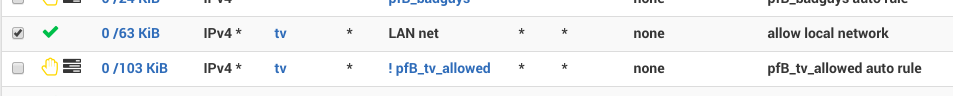
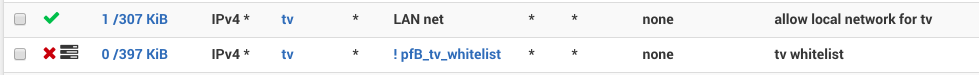
custom rules

diff --git a/posts/pfsensenvidia.html b/posts/pfsensenvidia.html
@@ -30,13 +30,13 @@
     
     <div class="container">      
         <div id="content"><div><h2 id="post_title">Suppress smart TV noise with pfSense</h2><p id="post_date">February 9, 2018</p><div id="post_body" class="page_body">Like millions of other folks, I have a <a href="https://www.nvidia.com/en-us/shield/">smart</a> TV, 
-or simply a tiny android box that lets me play Youtube music and Amazon Prime videos.
+or simply a tiny android box that plays Youtube music and Amazon Prime videos.
 I also like to run <a href="https://www.pfsense.org/">pfSense</a> firewall, with pretty much 
 out-of-the-box setup.
 </p>
 
-While checking firewall logs, and reviewing the usual scans for ports 23/22 from all over the world, 
-I started blocking certain geolocations and noticed that every minute or so my smart TV was 
+While checking firewall logs, and reviewing the usual scans for ports 23/22, from all over the world, 
+I decided to start blocking certain geolocations and noticed that every minute or so my smart TV was 
 pinging two IPs in China. 
 </p>
 <p style="text-align: center">
@@ -45,14 +45,14 @@ pinging two IPs in China.
         </a>
 </p>
         
-Launching adb, android debugger and digging deeper -- the app responsible for those pings is 
+Launching adb, android debugger and digging deeper -- the app responsible for those pings was 
 <a href="https://play.google.com/store/apps/details?id=com.waxrain.airplaydmr2&hl=en">com.waxrain.airplaydmr2</a>, 
 one of only 3 custom apps installed on the device.
 </p>
 
-This got me curious of what other traffic this little android box is leaking. Among the 
-usual Nvidia telemetry spam (even though it was explicitly disabled in the OS setttings), 
-there is Adobe and Facebook broadcasts. Neither of which I care about.
+This got me curious of what other traffic this android box is leaking. Among the 
+usual Nvidia telemetry (even though it was explicitly disabled in the OS setttings), 
+there are Adobe, Facebook and other broadcasts.
 </p>
 <p style="text-align: center">
 <a href="../assets/other-unknown-traffic.png">
@@ -60,29 +60,31 @@ there is Adobe and Facebook broadcasts. Neither of which I care about.
 </a>
 </p>
 
-With help from pfBlockerNG package, however, we can easily silence this chatter down.
+With pfSense, we can easily quiet this chatter down a bit.
 </p>
 
-<h3>Strategy</h3>
-First, we need to decided which traffic we care about. 
-I only care about youtube and amazon at this point. And while those two also broadcast a ton of telemetry data 
-we'll just have to take the bad with the good here. So outside of those two services, 
-the smart TV box should be completely silent and invisible to the outside world.
+<h3>0. Strategy</h3>
+First, we need to decide which traffic we care about. 
+I only care about youtube and amazon at this point, and while those two also query a ton of telemetry  
+we'll just have to take the bad with the good here. But outside of those two services, 
+the smart TV should be completely silent and invisible to the outside world.
 </p>
 
-To start blocking WAN traffic, we will build a pfBlockerNG rule to isolate  
-<a href="https://bgp.he.net/search?search%5Bsearch%5D=google&commit=Search">google</a>/<a href="https://bgp.he.net/search?search%5Bsearch%5D=amazon&commit=Search">amazon</a> 
-using <a href="https://en.wikipedia.org/wiki/Autonomous_system_(Internet)">ASN</a>s. 
-Upon feed updates, pfBlockerNG will resolve those ASNs to lots of IP addresses. 
-To make firewall rules easier, first we build a rule that blocks traffic to google/amazon 
-and then inverse the source/destination (effectively blocking all other traffic instead).
+In order to block WAN traffic, we will use a pfBlockerNG to isolate  
+<a href="https://bgp.he.net/search?search%5Bsearch%5D=google&commit=Search">google</a>, 
+<a href="https://bgp.he.net/search?search%5Bsearch%5D=amazon&commit=Search">amazon</a>, 
+and <a href="https://bgp.he.net/search?search%5Bsearch%5D=akamai&commit=Search">akamai</a> 
+(because that's where most amazon content is delivered from) using 
+<a href="https://en.wikipedia.org/wiki/Autonomous_system_(Internet)">ASN</a>s. 
+Upon feed updates, pfBlockerNG will resolve those ASNs to IP addresses which we can reference in 
+firewall rules.
 </p>
 
-<h3>Adding firewall rules</h3>
-Navigate to <b>Firewall / pfBlockerNG / IPv4</b>, click Add. Set List Action: Deny Both, on 
-Advanced Inbound add IP of your smart TV to Custom Destination, and similarly on 
-Advanced Outbound to Custom Source. In IPv4 Custom List tab, check Enable Domain/AS 
-and paste following ASNs into Custom Address(es).
+<h3>1. pfBlockerNG alias</h3>
+Navigate to <b>Firewall / pfBlockerNG / IPv4</b>, click Add. Come up with name (tv_whitelist), set List 
+Action: Alias Native, which means pfBlockerNG will only create firewall alias (<b>Firewall / Aliases / URLs</b>), 
+and won't be adding any firewall rules. 
+In IPv4 Custom List tab, check Enable Domain/AS and paste following ASNs into Custom Address(es).
 
 <pre>
 AS15169
@@ -98,20 +100,40 @@ AS6432
 AS16550
 AS62785
 AS58588
+AS393560
+AS393234
+AS36183
+AS35994
+AS35993
+AS32787
+AS30675
+AS23455
+AS23454
+AS22207
+AS20189
+AS18717
+AS18680
+AS17334
+AS16702
+AS16625
+AS12222
 </pre>
 
-Once the rule is saved, run pfBlockerNG update and reload steps on <b>Firewall / pfBlockerNG / Update</b> page. 
-The log should state that a few hundred IPs have been added.</p>
+Once this alias is saved, run pfBlockerNG update and reload steps on <b>Firewall / pfBlockerNG / Update</b> page. 
+The log should state that a few hundred IPs have been added, about 19000 as of this writting.</p>
 
-pfBlockerNG essentially builds multiple, regular pfSense firewall rules 
-which we'll slightly adjust to complete the setup.</p>
+<h3>2. Firewall rules</h3>
+With pfBlockerNG alias in place, on WAN firewall page (<b>Firewall / Rules / WAN</b>) add a new rule, 
+with Action: Block, set Destination to 
+the IP of smart TV, and set Source referencing pfBlockerNG alias (in my case pfB_tv_whitelist) and check Invert 
+match. Since this rule is blocking, Invert match will treat those IPs as a whitelist.</p>
 
-On WAN and LAN rules ( <b>Firewall / Rules / WAN</b> ) edit the rule created by pfBlockerNG to Invert match on 
-the Source. And similarly on LAN page, modify the rule to Invert match on Destination.</p>
+Similarly on LAN (<b>Firewall / Rules / LAN</b>), add a rule to Invert match on Destination, while listing 
+Source as Single host -- IP of the smart TV. It helps with testing and debugging to set Loging in Extra Options.</p>
 
-If you still want your smart TV to communicate to other devices on LAN, like Android debugging over WiFi or DNS 
-then add a new rule on LAN page, set Action to Pass, Source: smart TV IP, Destination: LAN net, 
-and make sure it's above the pfBlockerNG rule. In the end it should look something like this:
+If you still want your smart TV to communicate with other devices on LAN, like DNS/DHCP or debugging over WiFi, 
+then add another rule on LAN page, set Action to Pass, Source: smart TV IP, Destination: LAN net, 
+and make sure it's above the blocking rule. In the end it should look something like this:
 </p>
 <p style="text-align: center">
 <a href="../assets/lan-rules-pfsense.png">
@@ -120,7 +142,7 @@ and make sure it's above the pfBlockerNG rule. In the end it should look somethi
 </p>
 
 <h3>Testing</h3>
-When all is done, you can see traffic being blocked on <b>Firewall / pfBlockerNG / Alerts</b> page.
+When all is done, and logging is enabled, you can see traffic being blocked on <b>Firewall / pfBlockerNG / Alerts</b> page.
 </p>
 <p style="text-align: center">
 <a href="../assets/pfsense-block-results.png">

diff --git a/content/pfsensenvidia.html b/content/pfsensenvidia.html
@@ -1,11 +1,11 @@
 Like millions of other folks, I have a <a href="https://www.nvidia.com/en-us/shield/">smart</a> TV, 
-or simply a tiny android box that lets me play Youtube music and Amazon Prime videos.
+or simply a tiny android box that plays Youtube music and Amazon Prime videos.
 I also like to run <a href="https://www.pfsense.org/">pfSense</a> firewall, with pretty much 
 out-of-the-box setup.
 </p>
 
-While checking firewall logs, and reviewing the usual scans for ports 23/22 from all over the world, 
-I started blocking certain geolocations and noticed that every minute or so my smart TV was 
+While checking firewall logs, and reviewing the usual scans for ports 23/22, from all over the world, 
+I decided to start blocking certain geolocations and noticed that every minute or so my smart TV was 
 pinging two IPs in China. 
 </p>
 <p style="text-align: center">
@@ -14,14 +14,14 @@ pinging two IPs in China.
         </a>
 </p>
         
-Launching adb, android debugger and digging deeper -- the app responsible for those pings is 
+Launching adb, android debugger and digging deeper -- the app responsible for those pings was 
 <a href="https://play.google.com/store/apps/details?id=com.waxrain.airplaydmr2&hl=en">com.waxrain.airplaydmr2</a>, 
 one of only 3 custom apps installed on the device.
 </p>
 
-This got me curious of what other traffic this little android box is leaking. Among the 
-usual Nvidia telemetry spam (even though it was explicitly disabled in the OS setttings), 
-there is Adobe and Facebook broadcasts. Neither of which I care about.
+This got me curious of what other traffic this android box is leaking. Among the 
+usual Nvidia telemetry (even though it was explicitly disabled in the OS setttings), 
+there are Adobe, Facebook and other broadcasts.
 </p>
 <p style="text-align: center">
 <a href="../assets/other-unknown-traffic.png">
@@ -29,29 +29,31 @@ there is Adobe and Facebook broadcasts. Neither of which I care about.
 </a>
 </p>
 
-With help from pfBlockerNG package, however, we can easily silence this chatter down.
+With pfSense, we can easily quiet this chatter down a bit.
 </p>
 
-<h3>Strategy</h3>
-First, we need to decided which traffic we care about. 
-I only care about youtube and amazon at this point. And while those two also broadcast a ton of telemetry data 
-we'll just have to take the bad with the good here. So outside of those two services, 
-the smart TV box should be completely silent and invisible to the outside world.
+<h3>0. Strategy</h3>
+First, we need to decide which traffic we care about. 
+I only care about youtube and amazon at this point, and while those two also query a ton of telemetry  
+we'll just have to take the bad with the good here. But outside of those two services, 
+the smart TV should be completely silent and invisible to the outside world.
 </p>
 
-To start blocking WAN traffic, we will build a pfBlockerNG rule to isolate  
-<a href="https://bgp.he.net/search?search%5Bsearch%5D=google&commit=Search">google</a>/<a href="https://bgp.he.net/search?search%5Bsearch%5D=amazon&commit=Search">amazon</a> 
-using <a href="https://en.wikipedia.org/wiki/Autonomous_system_(Internet)">ASN</a>s. 
-Upon feed updates, pfBlockerNG will resolve those ASNs to lots of IP addresses. 
-To make firewall rules easier, first we build a rule that blocks traffic to google/amazon 
-and then inverse the source/destination (effectively blocking all other traffic instead).
+In order to block WAN traffic, we will use a pfBlockerNG to isolate  
+<a href="https://bgp.he.net/search?search%5Bsearch%5D=google&commit=Search">google</a>, 
+<a href="https://bgp.he.net/search?search%5Bsearch%5D=amazon&commit=Search">amazon</a>, 
+and <a href="https://bgp.he.net/search?search%5Bsearch%5D=akamai&commit=Search">akamai</a> 
+(because that's where most amazon content is delivered from) using 
+<a href="https://en.wikipedia.org/wiki/Autonomous_system_(Internet)">ASN</a>s. 
+Upon feed updates, pfBlockerNG will resolve those ASNs to IP addresses which we can reference in 
+firewall rules.
 </p>
 
-<h3>Adding firewall rules</h3>
-Navigate to <b>Firewall / pfBlockerNG / IPv4</b>, click Add. Set List Action: Deny Both, on 
-Advanced Inbound add IP of your smart TV to Custom Destination, and similarly on 
-Advanced Outbound to Custom Source. In IPv4 Custom List tab, check Enable Domain/AS 
-and paste following ASNs into Custom Address(es).
+<h3>1. pfBlockerNG alias</h3>
+Navigate to <b>Firewall / pfBlockerNG / IPv4</b>, click Add. Come up with name (tv_whitelist), set List 
+Action: Alias Native, which means pfBlockerNG will only create firewall alias (<b>Firewall / Aliases / URLs</b>), 
+and won't be adding any firewall rules. 
+In IPv4 Custom List tab, check Enable Domain/AS and paste following ASNs into Custom Address(es).
 
 <pre>
 AS15169
@@ -67,20 +69,40 @@ AS6432
 AS16550
 AS62785
 AS58588
+AS393560
+AS393234
+AS36183
+AS35994
+AS35993
+AS32787
+AS30675
+AS23455
+AS23454
+AS22207
+AS20189
+AS18717
+AS18680
+AS17334
+AS16702
+AS16625
+AS12222
 </pre>
 
-Once the rule is saved, run pfBlockerNG update and reload steps on <b>Firewall / pfBlockerNG / Update</b> page. 
-The log should state that a few hundred IPs have been added.</p>
+Once this alias is saved, run pfBlockerNG update and reload steps on <b>Firewall / pfBlockerNG / Update</b> page. 
+The log should state that a few hundred IPs have been added, about 19000 as of this writting.</p>
 
-pfBlockerNG essentially builds multiple, regular pfSense firewall rules 
-which we'll slightly adjust to complete the setup.</p>
+<h3>2. Firewall rules</h3>
+With pfBlockerNG alias in place, on WAN firewall page (<b>Firewall / Rules / WAN</b>) add a new rule, 
+with Action: Block, set Destination to 
+the IP of smart TV, and set Source referencing pfBlockerNG alias (in my case pfB_tv_whitelist) and check Invert 
+match. Since this rule is blocking, Invert match will treat those IPs as a whitelist.</p>
 
-On WAN and LAN rules ( <b>Firewall / Rules / WAN</b> ) edit the rule created by pfBlockerNG to Invert match on 
-the Source. And similarly on LAN page, modify the rule to Invert match on Destination.</p>
+Similarly on LAN (<b>Firewall / Rules / LAN</b>), add a rule to Invert match on Destination, while listing 
+Source as Single host -- IP of the smart TV. It helps with testing and debugging to set Loging in Extra Options.</p>
 
-If you still want your smart TV to communicate to other devices on LAN, like Android debugging over WiFi or DNS 
-then add a new rule on LAN page, set Action to Pass, Source: smart TV IP, Destination: LAN net, 
-and make sure it's above the pfBlockerNG rule. In the end it should look something like this:
+If you still want your smart TV to communicate with other devices on LAN, like DNS/DHCP or debugging over WiFi, 
+then add another rule on LAN page, set Action to Pass, Source: smart TV IP, Destination: LAN net, 
+and make sure it's above the blocking rule. In the end it should look something like this:
 </p>
 <p style="text-align: center">
 <a href="../assets/lan-rules-pfsense.png">
@@ -89,7 +111,7 @@ and make sure it's above the pfBlockerNG rule. In the end it should look somethi
 </p>
 
 <h3>Testing</h3>
-When all is done, you can see traffic being blocked on <b>Firewall / pfBlockerNG / Alerts</b> page.
+When all is done, and logging is enabled, you can see traffic being blocked on <b>Firewall / pfBlockerNG / Alerts</b> page.
 </p>
 <p style="text-align: center">
 <a href="../assets/pfsense-block-results.png">
